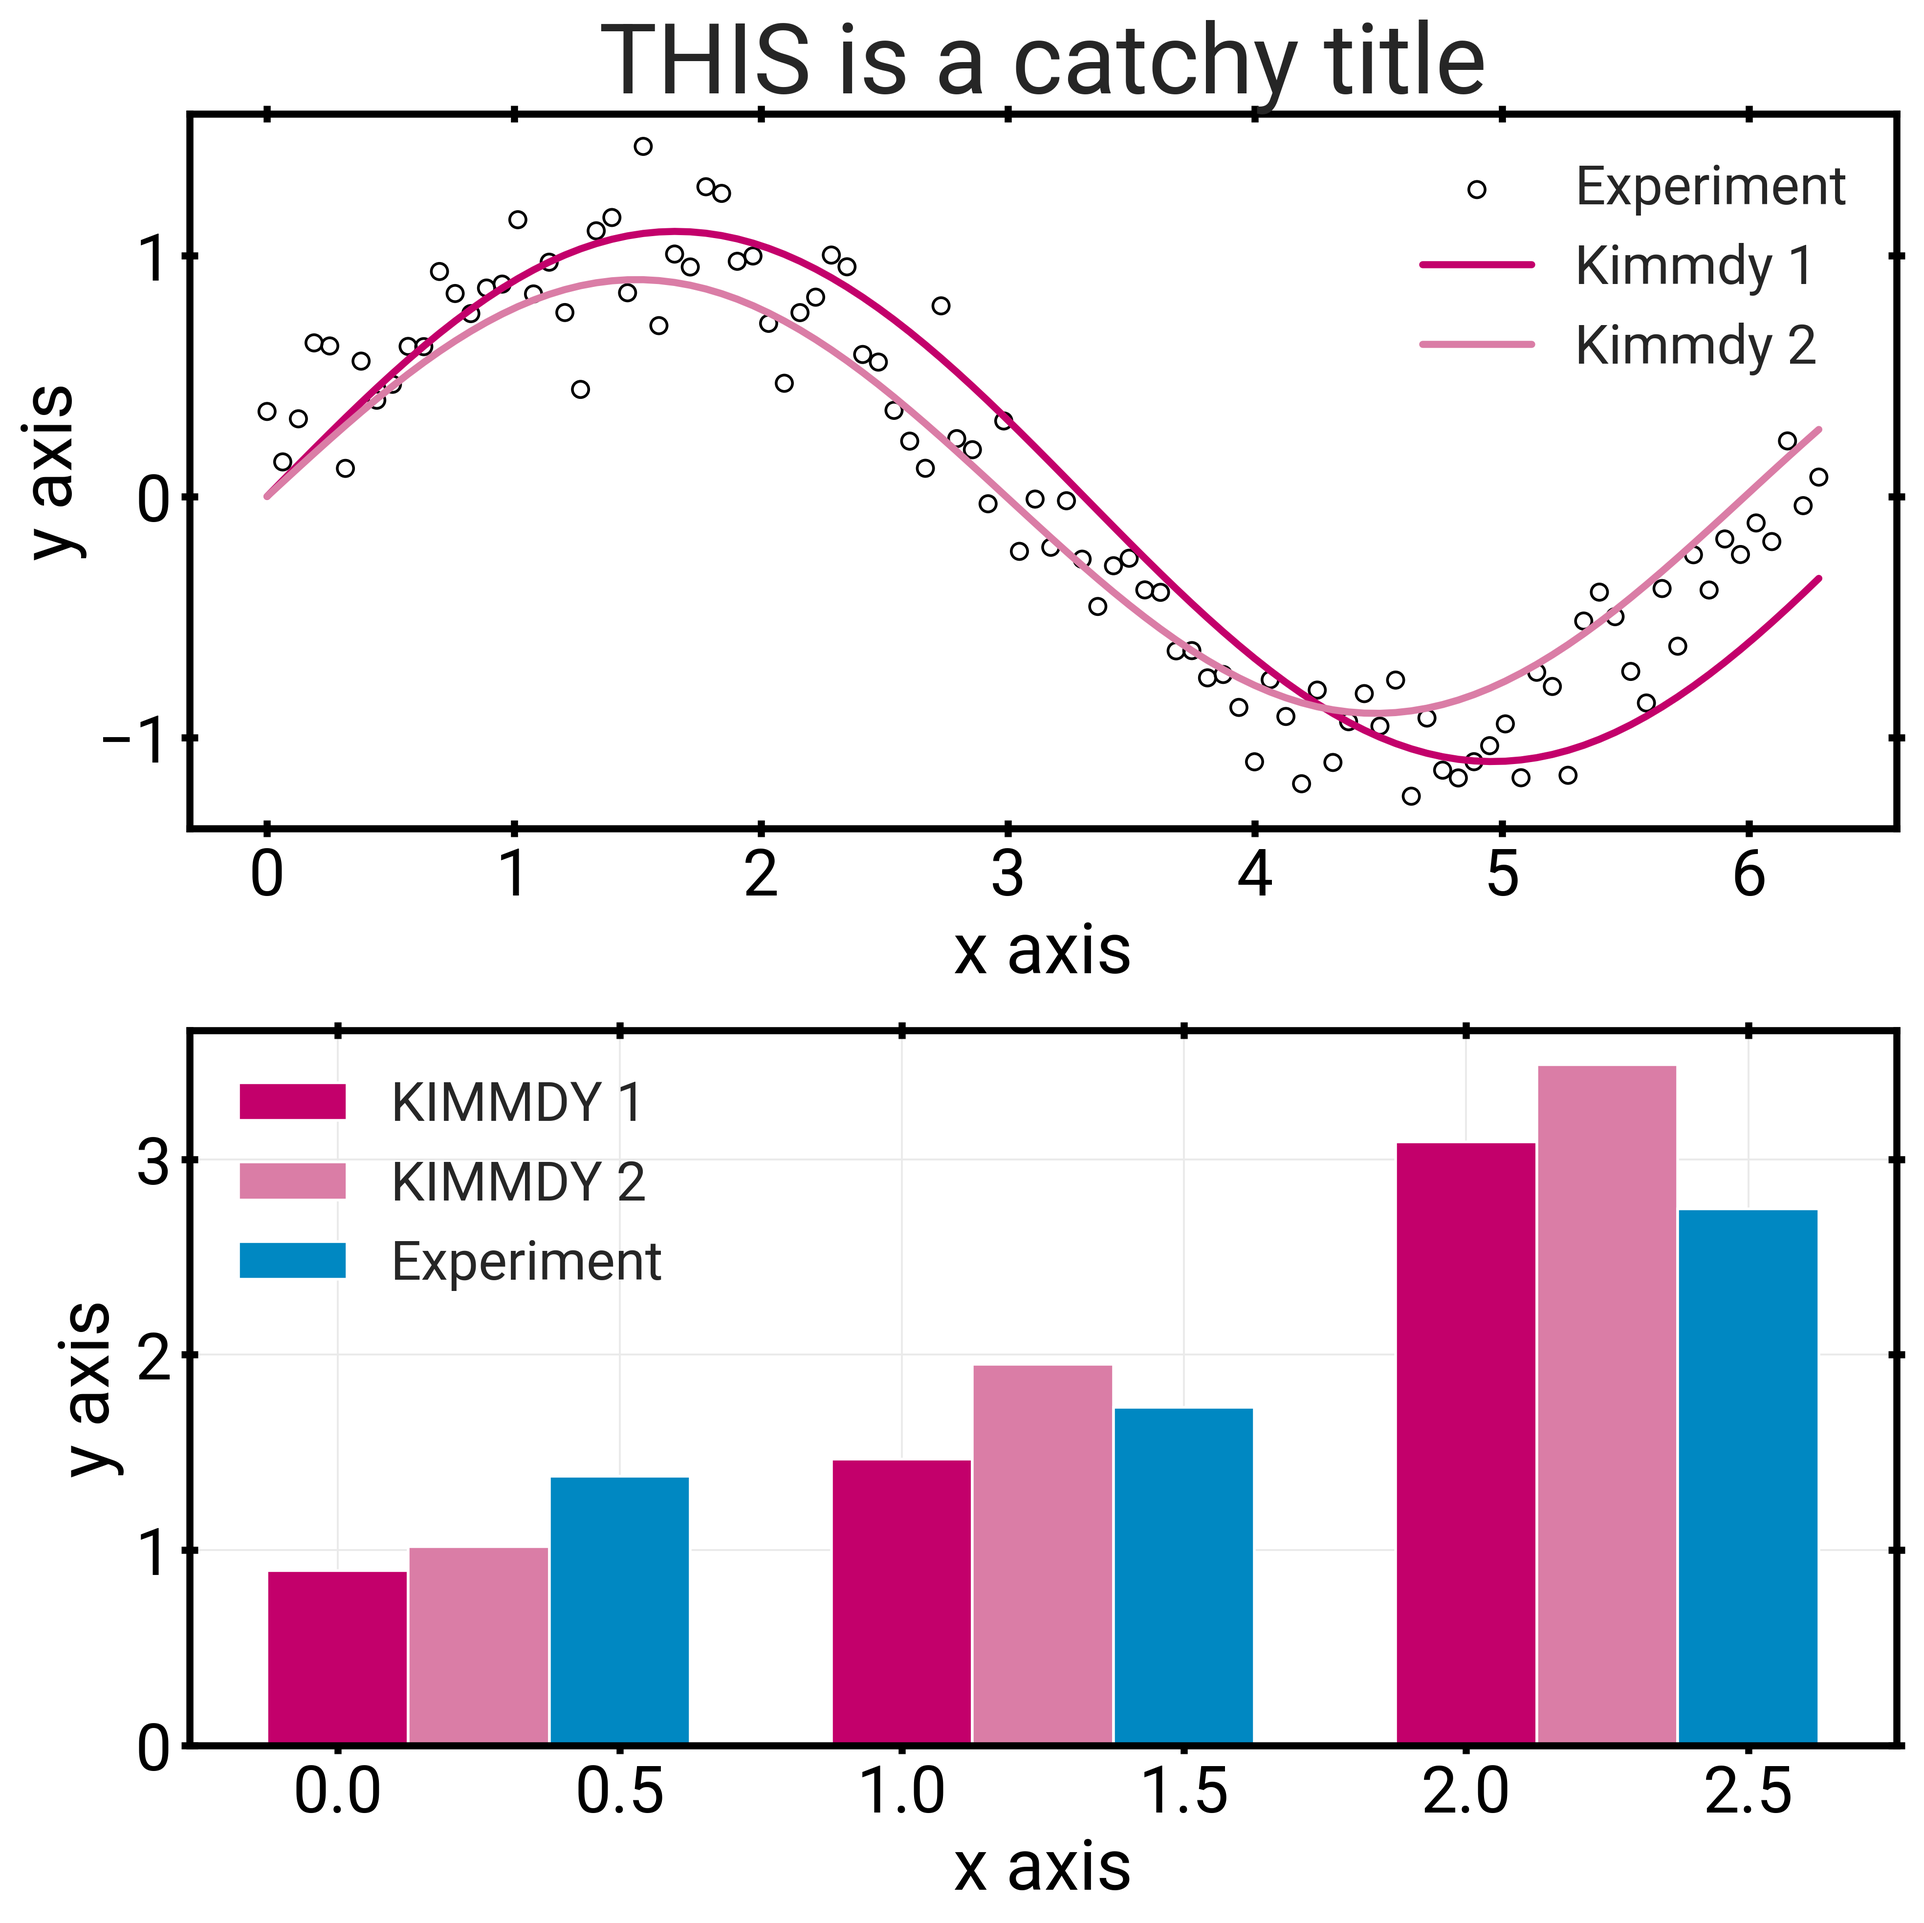
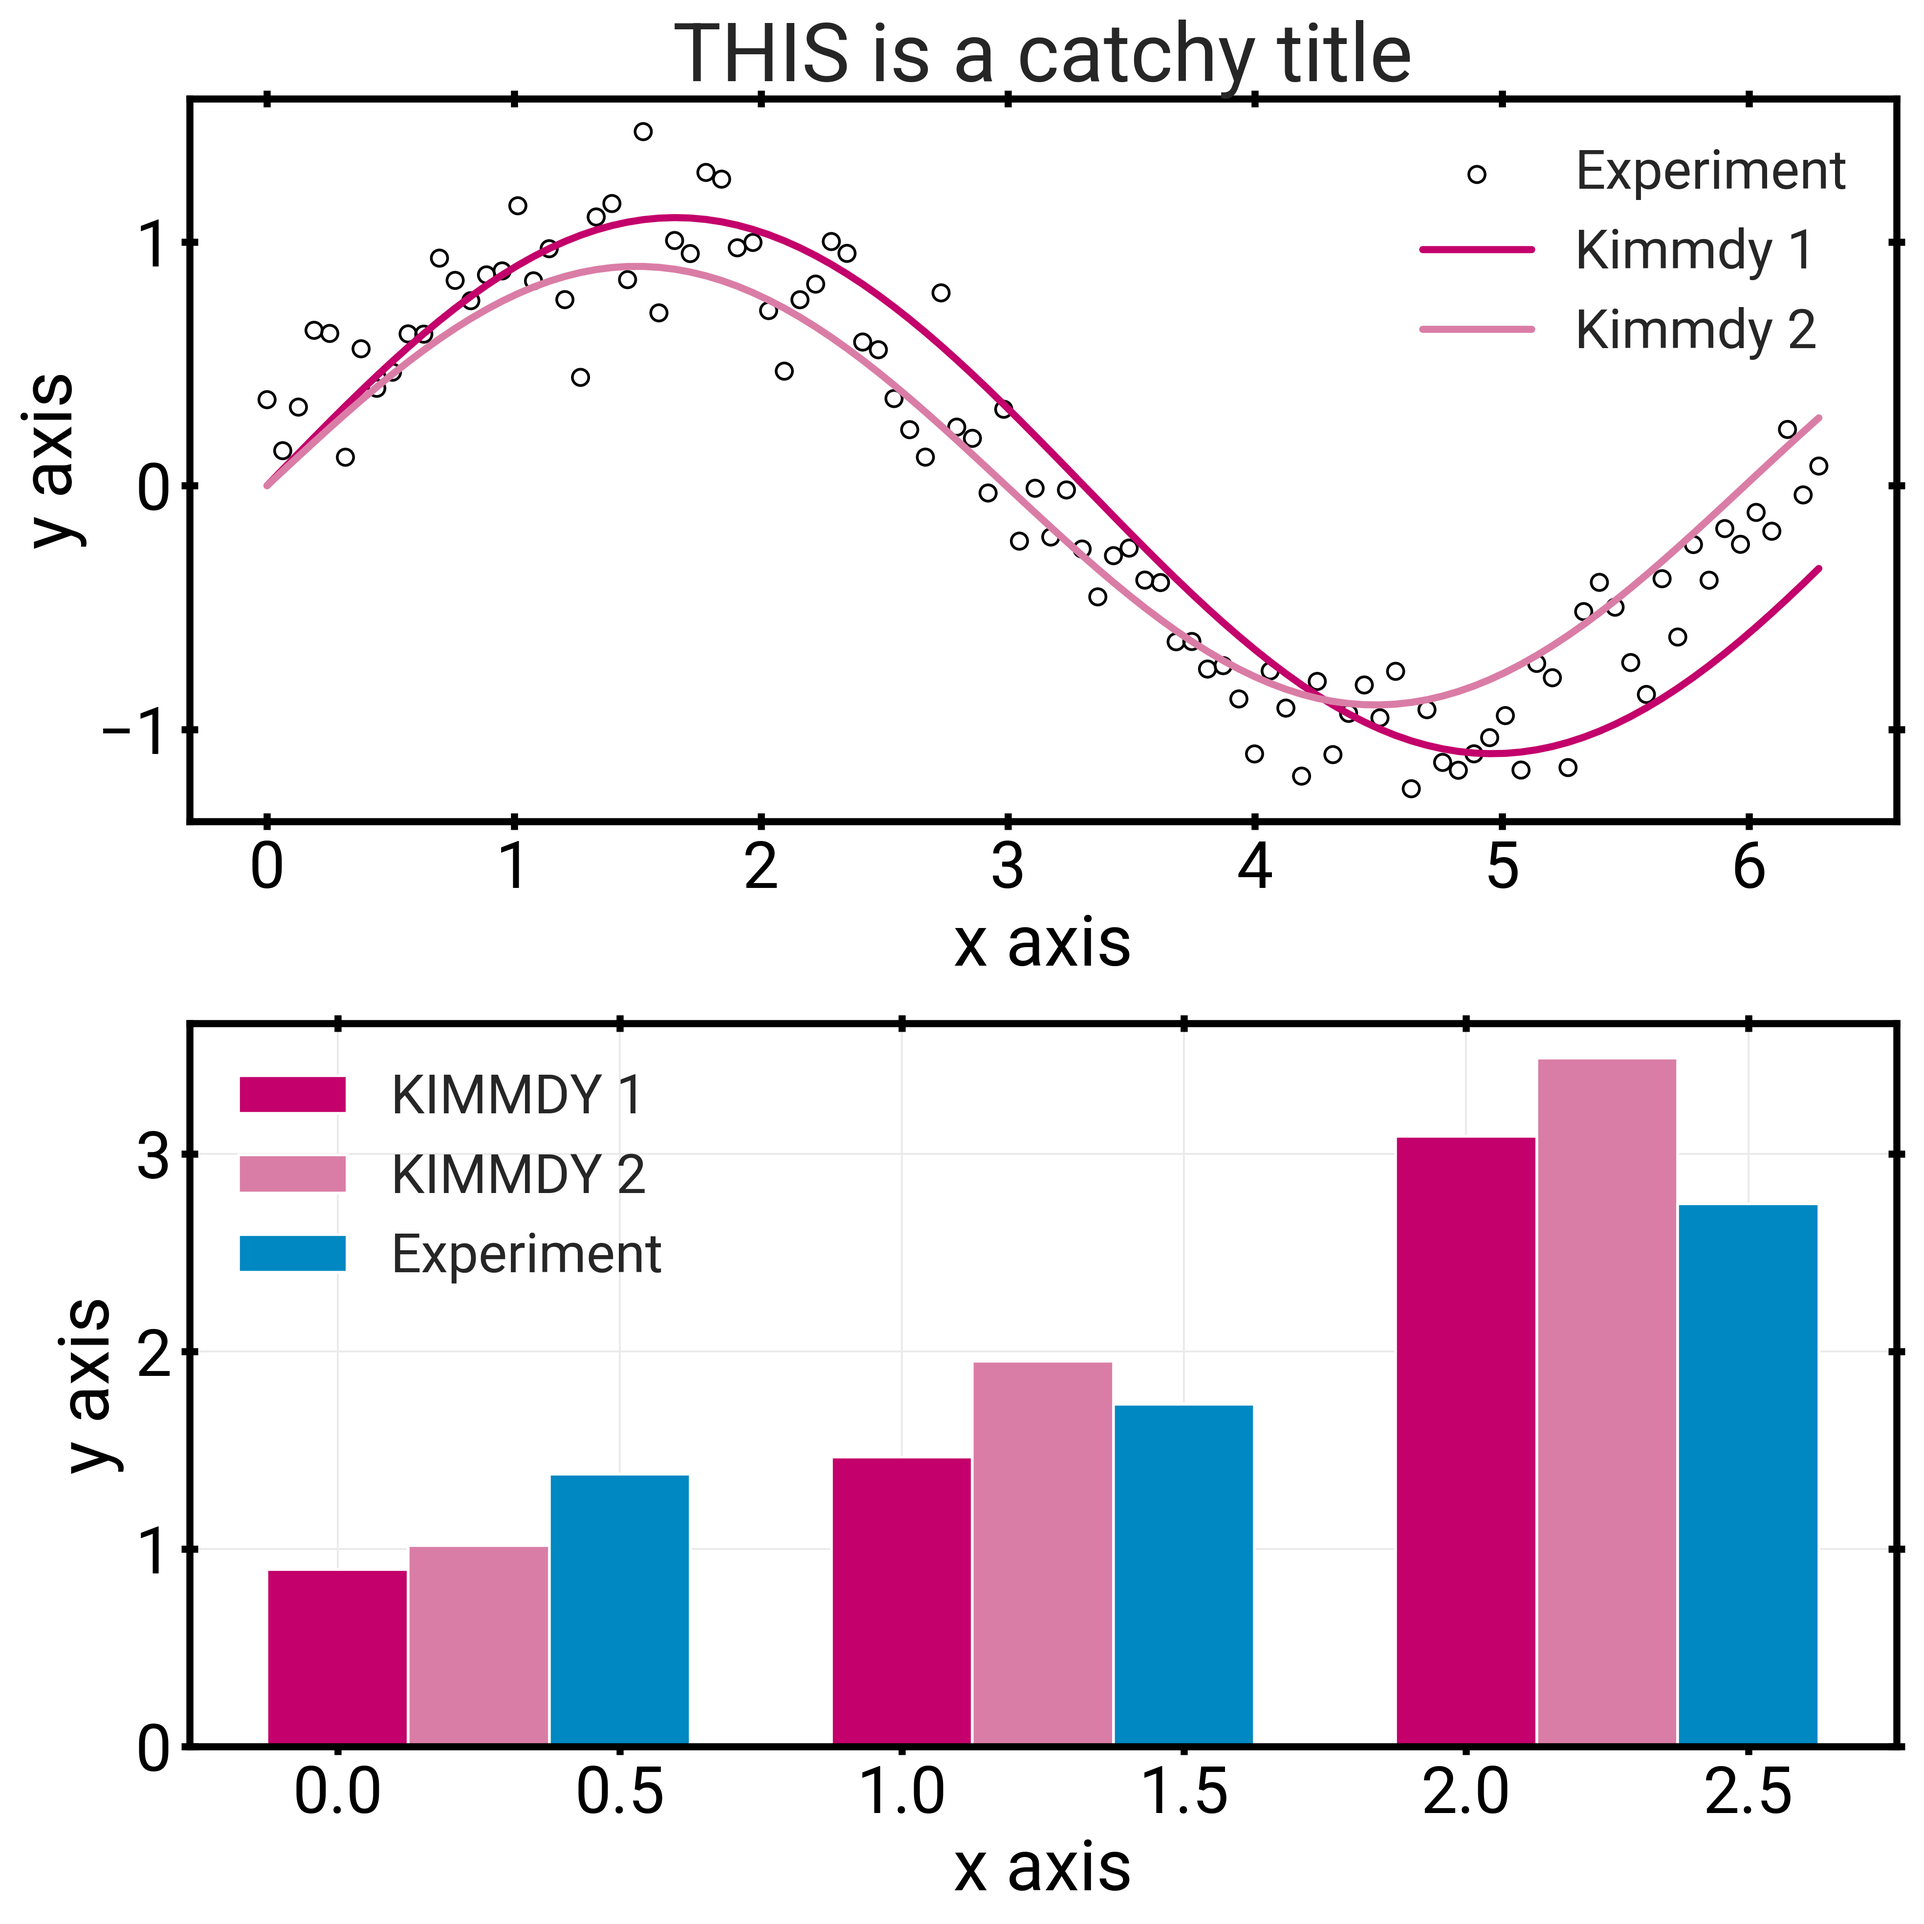
reduce title font

diff --git a/kimmdy_paper_theme/kimmdy_paper_theme.py b/kimmdy_paper_theme/kimmdy_paper_theme.py
@@ -44,7 +44,7 @@ default_plot_config = {
     # Font sizes (good for figsize ~ (10, 10); adjust as needed for smaller/larger figures)
     'xtick.labelsize': 24,            # Font size for x-axis tick labels
     'ytick.labelsize': 24,            # Font size for y-axis tick labels
-    'axes.titlesize': 36,             # Font size for the axes (subplot) title
+    'axes.titlesize': 30,             # Font size for the axes (subplot) title
     'axes.labelsize': 26,             # Font size for axis labels (x and y labels)
     'legend.fontsize': 20,            # Font size for legend text
     'figure.titlesize': 30,           # Font size for the figure-level suptitle
